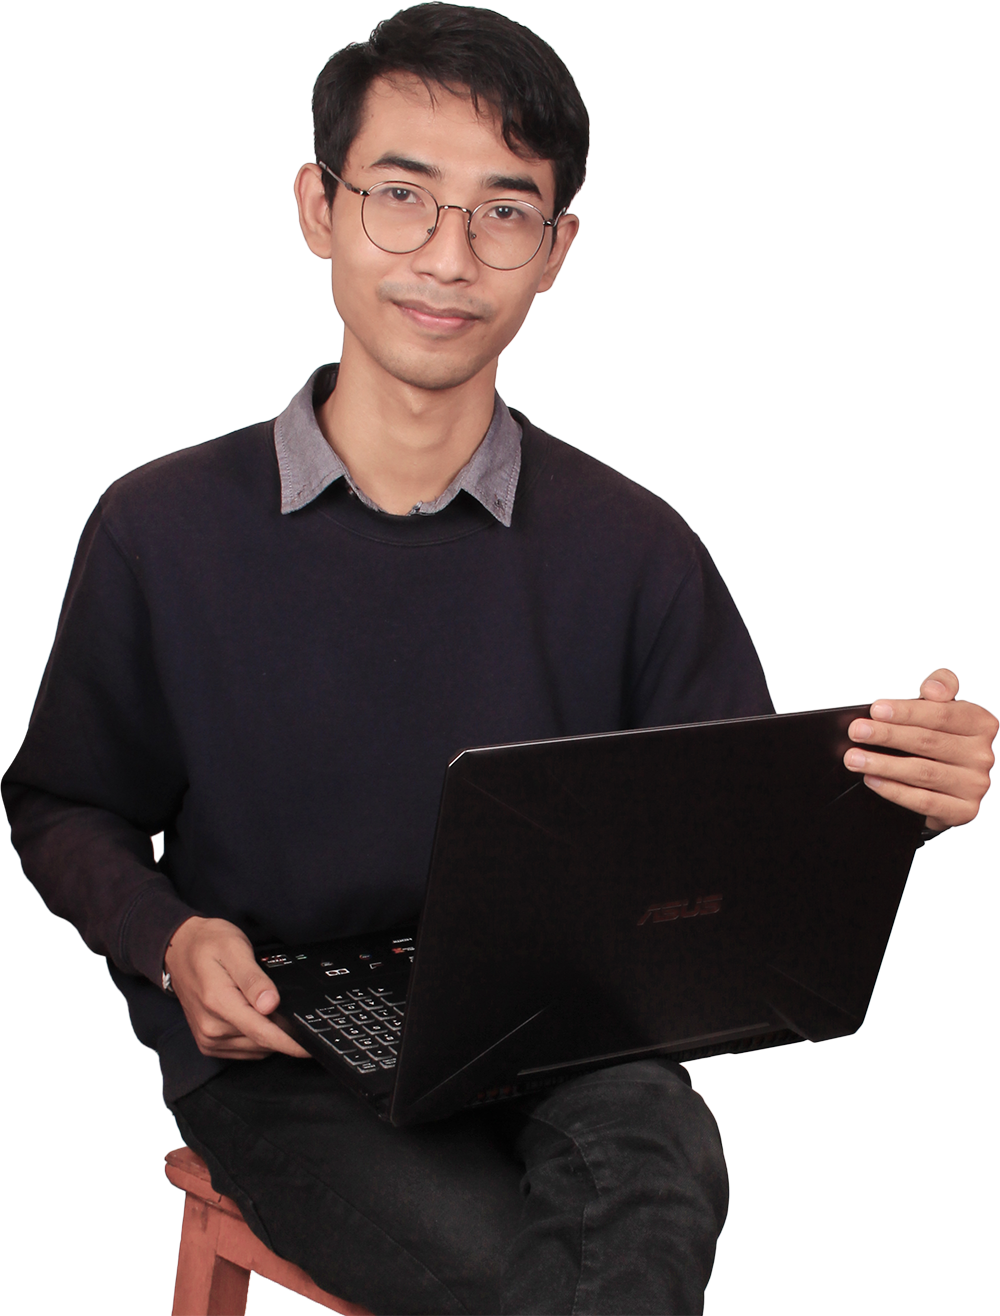
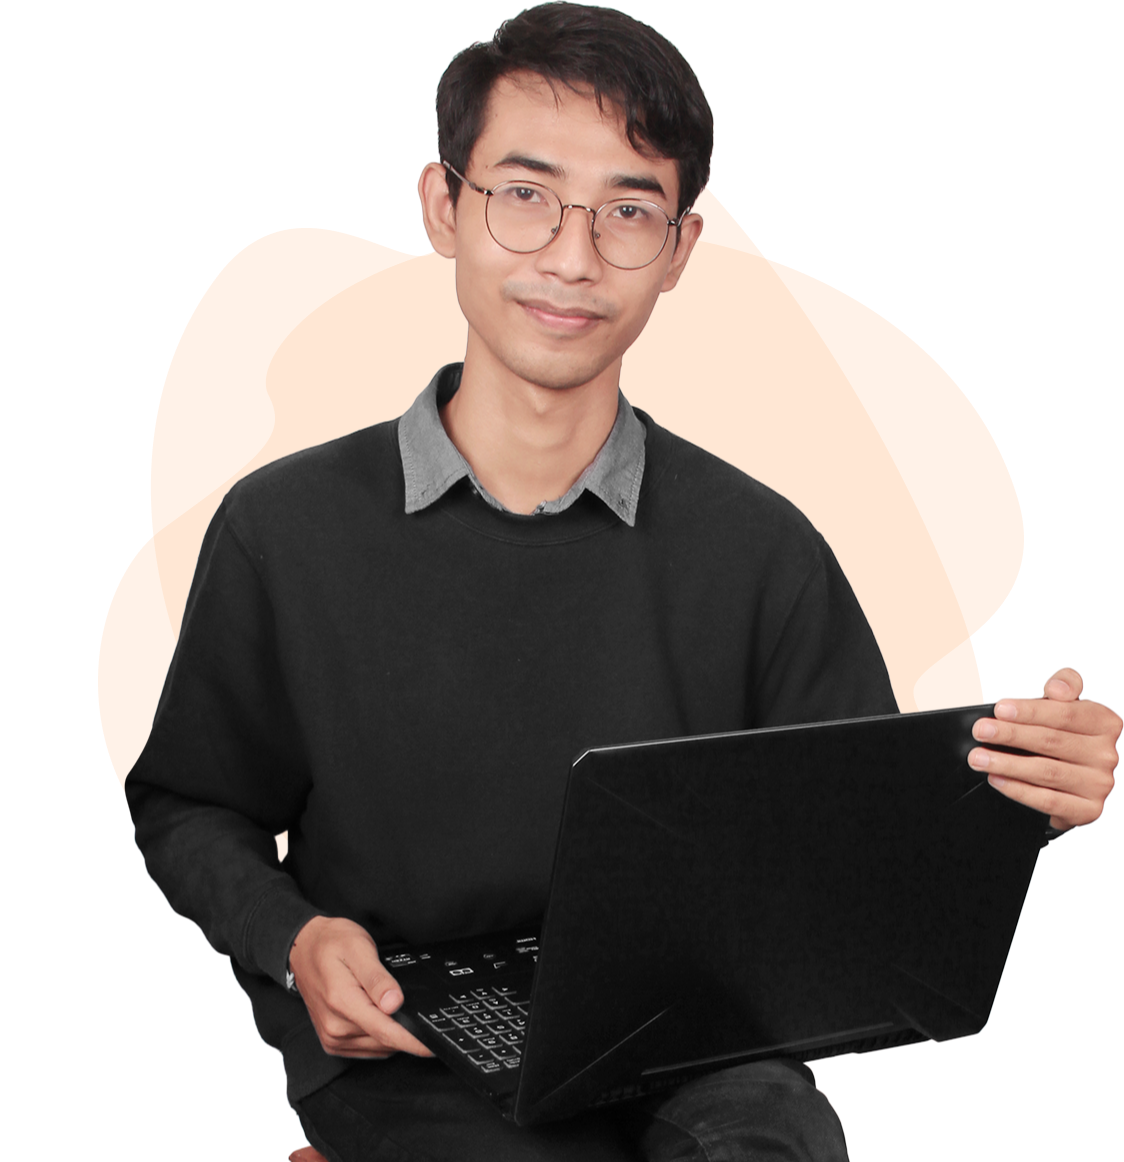
redesign

diff --git a/index.html b/index.html
@@ -5,6 +5,7 @@
     <meta charset="UTF-8">
     <meta name="viewport" content="width=device-width, initial-scale=1.0">
     <title>Juliana Putra | Web Designer</title>
+    <link rel="shortcut icon" href="assets/favicon.ico">
     <link rel="stylesheet" href="assets/css/bootstrap.min.css">
     <link rel="stylesheet" href="assets/css/style.css">
     <link href="https://unpkg.com/aos@2.3.1/dist/aos.css" rel="stylesheet">
@@ -12,9 +13,9 @@
 
 <body class="" data-spy="scroll" data-target="#navbar">
 
-    <nav id="navbar" class="navbar navbar-expand-md navbar-light bg-white fixed-top">
+    <nav id="navbar" class="navbar navbar-expand-md navbar-light bg-light fixed-top">
         <div class="container">
-            <a class="navbar-brand font-weight-bold" href="#top">{JP}</a>
+            <a class="navbar-brand font-weight-bold text-orange" href="#top">{JP}</a>
             <button class="navbar-toggler" type="button" data-toggle="collapse" data-target="#navbarNavAltMarkup"
                 aria-controls="navbarNavAltMarkup" aria-expanded="false" aria-label="Toggle navigation">
                 <span class="navbar-toggler-icon"></span>
@@ -41,27 +42,27 @@
 
 
     <div data-spy="scroll" data-target="#navbar" data-offset="0">
-        <header id="top" class="pt-5">
+        <header id="top" class="bg-primary" style="z-index: -1;">
             <div class="container">
                 <div class="row align-items-center justify-content-between">
-                    <div class="col-lg-5">
-                        <h6>HELLO, I'M JULIANA PUTRA</h6>
-                        <h1>FRONT-END<br>DEVELOPER</h1>
-                        <p>Saya akan membantu membuat tampilan website anda lebih bersih, rapi namun tetap terlihat
-                            indah</p>
-                        <a href="#portfolio" class="btn btn-warning">My Portfolio</a>
+                    <div class="col-lg-5" data-aos="fade-right">
+                        <h6 class="text-orange">HELLO, I AM</h6>
+                        <h1 class="text-title">Juliana Putra</h1>
+                        <h3 class="text-title font-weight-bold">Front-End Developer</h3>
+                        <p class="text-body">Mahasiswa ilmu komputer yang siap membantu mengerjakan proyek website anda
+                            sepenuh hati.</p>
+                        <a href="#portfolio" class="btn btn-orange">My Portfolio</a>
                     </div>
-                    <div class="col-lg-5">
-                        <img class="mt-5 img-fluid hero-img" src="assets/img/profile.png" alt="" data-aos="fade-left">
+                    <div class="col-lg-5" data-aos="fade-left" data-aos-delay="500">
+                        <img class="mt-5 img-fluid hero-img" src="assets/img/profile.png" alt="">
                     </div>
                 </div>
             </div>
         </header>
 
-        <section id="services" class="bg-dark">
+        <section id="services" class="p-relative p-0">
             <div class="container">
-                <h4 class="text-center mb-5">Services</h4>
-                <div class="row justify-content-center">
+                <div class="row mx-1 py-4 px-3 border rounded bg-white service-box">
                     <div class="col-lg-4">
                         <div class="row">
                             <div class="col-4">
@@ -96,67 +97,92 @@
                         </div>
                     </div>
                 </div>
-
             </div>
         </section>
 
         <section id="about" class="">
             <div class="container py-5">
-                <div class="row justify-content-center">
-                    <div class="col-lg-7 text-center">
-                        <img class="about-img img-fluid" src="assets/img/about.png" alt="" data-aos="flip-left">
+                <div class="row justify-content-around align-items-center">
+                    <div class="col-lg-4 text-center" data-aos="fade-right" data-aos-delay="500" data-aos-offset="0">
+                        <img class="about-img img-fluid mb-5" src="assets/img/about.png" alt="">
                     </div>
-                    <div class="col-lg-5">
-                        <h4>About Me</h4>
-                        <p class="">Lorem ipsum dolor sit amet, consectetur adipisicing elit. Cumque alias atque fugit,
-                            ipsum nostrum quia repellat dolorum expedita vero commodi, voluptates officiis pariatur,
-                            facere recusandae quas exercitationem eveniet tenetur sapiente.</p>
-                        <button type="button" class="btn btn-warning">Show CV</button>
+                    <div class="col-lg-5" data-aos="fade-left" data-aos-offset="0">
+                        <h6 class="text-orange">ABOUT ME</h6>
+                        <h2 class="text-title font-weight-bold">Why You Should Choose Me?</h2>
+                        <p class="text-body py-4">
+                            Ketertarikan saya terhadap komputer dan teknologi muncul saat saya berusia 12 tahun, lalu
+                            design merupakan passion saya. Rasa ingin tahu yang tinggi menyebabkan saya selalu tertarik
+                            mempelajari teknologi-teknologi baru khususnya front-end developer.
+                            <br><br>
+                            Dengan bekerja sebagai front-end developer membuat saya merasa melakukan kegiatan favorit
+                            saya, sehingga saya akan melakukannya dengan sepenuh hati.
+                        </p>
+                        <a href="#portfolio" class="btn btn-orange">Show CV</a>
                     </div>
                 </div>
             </div>
         </section>
 
-        <section id="portfolio" class="text-center bg-light">
+        <section id="portfolio" class="text-center bg-primary">
             <div class="container py-5">
                 <div class="row justify-content-center">
                     <div class="col-lg-8">
-                        <h4>My Portfolio</h4>
-                        <p class="">Lorem ipsum dolor sit amet, consectetur adipisicing elit. Cumque alias atque fugit,
-                            ipsum nostrum quia repellat dolorum expedita vero commodi, voluptates officiis pariatur,
-                            facere recusandae quas exercitationem eveniet tenetur sapiente.</p>
-
+                        <h6 class="text-orange">MY PORTFOLIO</h6>
+                        <h2 class="text-title font-weight-bold mb-5">My Latest Work</h2>
                     </div>
                 </div>
                 <div class="row justify-content-center">
                     <div class="col-lg-4">
-                        <img src="assets/img/p2.png" class="img-fluid">
+                        <img src="assets/img/p2.png" class="img-fluid shadow mb-3">
                     </div>
                     <div class="col-lg-4">
-                        <img src="assets/img/p1.png" class="img-fluid">
+                        <img src="assets/img/p1.png" class="img-fluid shadow mb-3">
                     </div>
                     <div class="col-lg-4">
-                        <img src="assets/img/p3.png" class="img-fluid">
+                        <a href="https://dribbble.com/shots/14166821-National-Accounting-Competition-Landing-Page"
+                            target="_blank">
+                            <img src="assets/img/p3.png" class="img-fluid shadow mb-3">
+                        </a>
                     </div>
+                </div>
+                <a href="https://dribbble.com/julianaputra10" class="btn btn-orange mt-5" target="_blank">Show More</a>
+            </div>
+        </section>
 
+        <section id="contact" class="">
+            <div class="container">
+                <div class="row">
+                    <div class="col-lg-5">
+                        <h6 class="text-orange">CONTACT ME</h6>
+                        <h2 class="text-title font-weight-bold mb-5">Get in Touch</h2>
+                    </div>
+                    <div class="col-lg-6">
+                        <form action="mailto:garistanganid@gmail.com" method="post" enctype="text/plain">
+                            <div class="form-group">
+                                <label for="exampleInputEmail1">Email address</label>
+                                <input type="email" class="form-control" id="exampleInputEmail1"
+                                    aria-describedby="emailHelp" name="mail">
+                                <small id="emailHelp" class="form-text text-muted">We'll never share your email with
+                                    anyone else.</small>
+                            </div>
+                            <div class="form-group">
+                                <label for="exampleFormControlTextarea1">Message</label>
+                                <textarea class="form-control" id="exampleFormControlTextarea1" rows="3"
+                                    name="comment"></textarea>
+                            </div>
+                            <input type="submit" class="btn btn-primary float-right btn-orange" value="Send Message">
+                        </form>
+                    </div>
                 </div>
             </div>
         </section>
 
-        <section id="contact" class="my-5">
+        <section class="text-center bg-footer" id="footer">
             <div class="container">
-                <h6>CONTACT</h6>
-                <h3>Let's be Friends</h3>
-                <h4 class="text-white">I'm available for<br>freelancing project</h4>
-                <a class="btn btn-light" href="mailto:julianaputra10@gmail.com">Contact me</a>
+
+                <small class="copyright text-white">&copy; 2020 Juliana Putra</small>
             </div>
         </section>
-
-        <footer class="text-center" id="footer">
-            <div class="container">
-                <div class="copyright">&copy; 2020 Juliana Putra</div>
-            </div>
-        </footer>
 
     </div>
 
@@ -168,7 +194,7 @@
     <script src="https://unpkg.com/aos@next/dist/aos.js"></script>
     <script>
         AOS.init({
-            duration: 1200
+            duration: 800
         });
     </script>
 </body>

diff --git a/assets/css/style.scss b/assets/css/style.scss
@@ -1,5 +1,33 @@
 // Utility
 
+
+//Colors
+.bg-primary{
+    background-color: #F1F4FB !important;
+}
+.bg-footer{
+    background-color: #0C0A5D;
+}
+
+.text-orange{
+    color: #FF9442 !important;
+    font-weight: bold;
+}
+.text-title{
+    color: #0C0A5D;
+    font-weight: 800;
+}
+.text-body{
+    color: #818181 !important;
+}
+
+.btn-orange{
+    background-color: #FF9442 !important;
+    border-color: #FF9442 !important;
+    color: #fff !important;
+    font-weight: 400;
+}
+
 section{
     padding-top: 50px !important;
     padding-bottom: 50px !important;
@@ -21,17 +49,39 @@ html{
 
     body{
         position: relative;
+        overflow-x: hidden;
+        max-width: 100vw;
+        nav{
+            max-width: 100vw;
+        }
         #top{
-            background-color: #F6F6F6;
             position: relative;
+            padding-top: 100px;
         }
-        #about{
-            background-color: #F6F6F6;
+        #services{
+            .service-box{
+                margin-top: -30px;
+                z-index: 1;
+                // position: absolute;
+                // left: 50%;
+                // transform: translateX(-50%);
+            }
         }
+
         #footer{
-            background-color: #F6F6F6;
             position: relative;
         }
 
+    }
+}
+
+@media only screen and (min-width: 768px) {
+
+    html{   
+        body{
+            #top{
+                padding-top: 40px;
+            }
+        }
     }
 }

diff --git a/assets/css/style.css b/assets/css/style.css
@@ -1,3 +1,32 @@
+.bg-primary {
+  background-color: #F1F4FB !important;
+}
+
+.bg-footer {
+  background-color: #0C0A5D;
+}
+
+.text-orange {
+  color: #FF9442 !important;
+  font-weight: bold;
+}
+
+.text-title {
+  color: #0C0A5D;
+  font-weight: 800;
+}
+
+.text-body {
+  color: #818181 !important;
+}
+
+.btn-orange {
+  background-color: #FF9442 !important;
+  border-color: #FF9442 !important;
+  color: #fff !important;
+  font-weight: 400;
+}
+
 section {
   padding-top: 50px !important;
   padding-bottom: 50px !important;
@@ -22,19 +51,31 @@ html {
 
 html body {
   position: relative;
+  overflow-x: hidden;
+  max-width: 100vw;
+}
+
+html body nav {
+  max-width: 100vw;
 }
 
 html body #top {
-  background-color: #F6F6F6;
   position: relative;
+  padding-top: 100px;
 }
 
-html body #about {
-  background-color: #F6F6F6;
+html body #services .service-box {
+  margin-top: -30px;
+  z-index: 1;
 }
 
 html body #footer {
-  background-color: #F6F6F6;
   position: relative;
+}
+
+@media only screen and (min-width: 768px) {
+  html body #top {
+    padding-top: 40px;
+  }
 }
 /*# sourceMappingURL=style.css.map */
